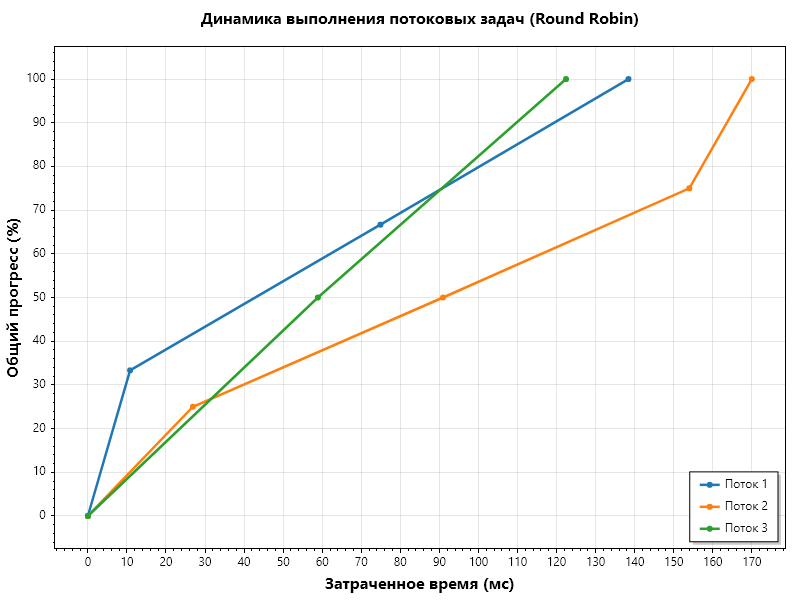
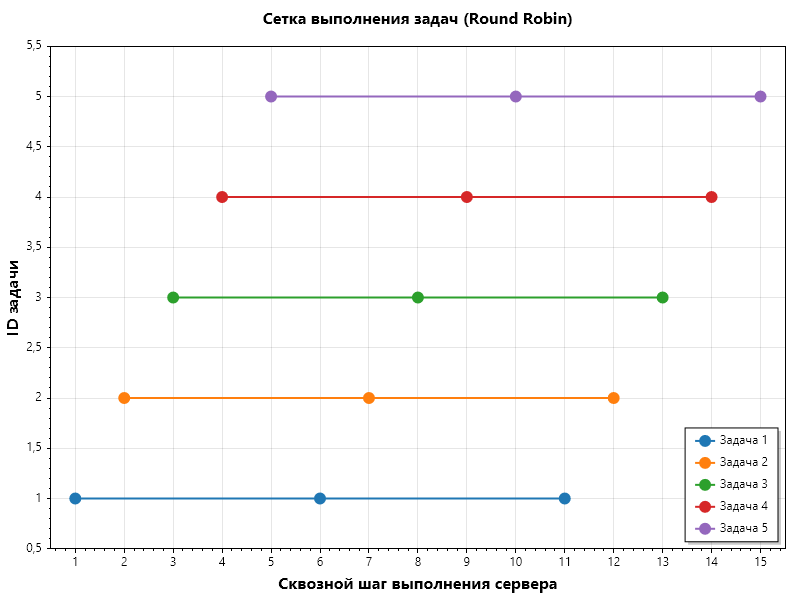
Add task19 solution, long operations handling, execution metrics and xunit tests

diff --git a/practice2026/task19tests/LongOperationsTests.cs b/practice2026/task19tests/LongOperationsTests.cs
@@ -1,0 +1,101 @@
+using System;
+using System.Collections.Generic;
+using System.Diagnostics;
+using System.IO;
+using System.Linq;
+using System.Threading;
+using Xunit;
+using ScottPlot;
+using task17;
+
+namespace task19tests;
+
+public class LongOperationsTests
+{
+    private const int ThreadJoinTimeoutMs = 3000;
+    private const int ImageWidth = 800;
+    private const int ImageHeight = 600;
+
+    [Fact]
+    public void IllustrateFiveTestCommands()
+    {
+        var scheduler = new RoundRobinScheduler();
+        var server = new ServerThread(scheduler);
+        var log = new List<int>();
+
+        var cmd1 = new TestCommand(1, log);
+        var cmd2 = new TestCommand(2, log);
+        var cmd3 = new TestCommand(3, log);
+        var cmd4 = new TestCommand(4, log);
+        var cmd5 = new TestCommand(5, log);
+
+        server.EnqueueCommand(cmd1);
+        server.EnqueueCommand(cmd2);
+        server.EnqueueCommand(cmd3);
+        server.EnqueueCommand(cmd4);
+        server.EnqueueCommand(cmd5);
+
+        server.Start();
+
+        Thread.Sleep(300);
+
+        var hardStop = new HardStopCommand(server);
+        server.EnqueueCommand(hardStop);
+
+        server.WaitUntilFinished(ThreadJoinTimeoutMs);
+        Assert.False(server.IsAlive);
+
+        Assert.Equal(15, log.Count);
+        for (int id = 1; id <= 5; id++)
+        {
+            int count = log.Count(x => x == id);
+            Assert.Equal(3, count);
+        }
+
+        var plot = new Plot();
+        plot.Title("Сетка выполнения задач (Round Robin)");
+        plot.XLabel("Сквозной шаг выполнения сервера");
+        plot.YLabel("ID задачи");
+
+        for (int id = 1; id <= 5; id++)
+        {
+            var taskSteps = new List<double>();
+            for (int i = 0; i < log.Count; i++)
+            {
+                if (log[i] == id)
+                {
+                    taskSteps.Add(i + 1);
+                }
+            }
+
+            double[] xs = taskSteps.ToArray();
+            double[] ys = Enumerable.Repeat((double)id, xs.Length).ToArray();
+
+            var scatter = plot.Add.Scatter(xs, ys);
+            scatter.LineWidth = 2;
+            scatter.MarkerSize = 12;
+            scatter.LegendText = $"Задача {id}";
+        }
+
+        plot.ShowLegend();
+        plot.Axes.SetLimits(0.5, 15.5, 0.5, 5.5);
+
+        string rootDirectory = Path.GetFullPath(Path.Combine(AppContext.BaseDirectory, "..", "..", "..", ".."));
+        string filePathPNG = Path.Combine(rootDirectory, "progress_chart.png");
+        string filePathTXT = Path.Combine(rootDirectory, "report.txt");
+
+        plot.SavePng(filePathPNG, ImageWidth, ImageHeight);
+
+        using (var writer = new StreamWriter(filePathTXT))
+        {
+            writer.WriteLine("Отчет по выполнению длительных операций (Задание 19):");
+            writer.WriteLine("Шулепко Никита Александрович");
+            writer.WriteLine();
+            writer.WriteLine("Порядок выполнения шагов:");
+            for (int i = 0; i < log.Count; i++)
+            {
+                writer.WriteLine($"Шаг {i + 1}: Выполнена задача {log[i]}");
+            }
+        }
+    }
+}

diff --git a/practice2026/task17/TestCommand.cs b/practice2026/task17/TestCommand.cs
@@ -1,0 +1,32 @@
+using System;
+using System.Collections.Generic;
+
+namespace task17;
+
+public class TestCommand : ILongCommand
+{
+    private readonly int _id;
+    private int _counter = 0;
+    private readonly List<int> _executionOrder;
+
+    public TestCommand(int id, List<int> executionOrder)
+    {
+        _id = id;
+        _executionOrder = executionOrder;
+    }
+
+    public bool IsCompleted => _counter >= 3;
+
+    public void Execute()
+    {
+        if (IsCompleted) return;
+
+        _counter++;
+        Console.WriteLine($"Поток {_id} вызов {_counter}");
+
+        lock (_executionOrder)
+        {
+            _executionOrder.Add(_id);
+        }
+    }
+}
